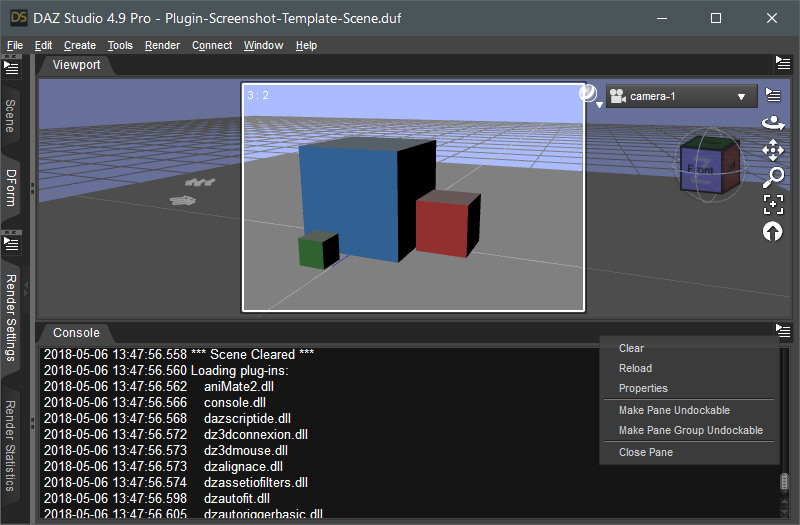
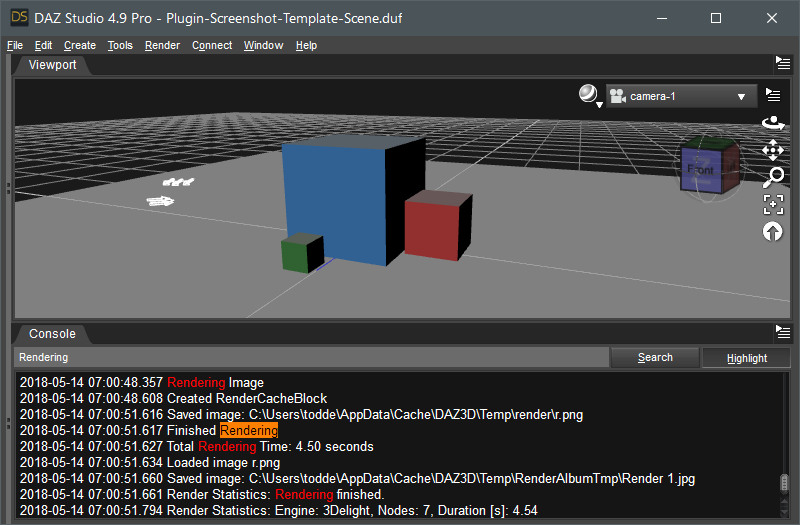
Updating README.md and consoles screenshot, collecting new TODOs for the search/highlight feature and increasing version of console

diff --git a/console/version.h b/console/version.h
@@ -18,7 +18,7 @@
 #define PLUGIN_TAGLINE "This plug-in provides a console to the log file of DAZ Studio."
 #define PLUGIN_MAJOR 1
 #define PLUGIN_MINOR 4
-#define PLUGIN_REV 0
+#define PLUGIN_REV 1
 #define PLUGIN_BUILD 1
 #define PLUGIN_VERSION DZ_MAKE_VERSION( \
   PLUGIN_MAJOR, PLUGIN_MINOR, PLUGIN_REV, PLUGIN_BUILD \

diff --git a/README.md b/README.md
@@ -5,7 +5,7 @@ dzUtilities
 
 #|Utility Plugin|Description|Version|TODO|Source
 ---|---|---|---|---|---
-1.|[Console](#console)|Console plugin displaying DAZ Studio Log file|1.4.0|[TODO](https://github.com/tpiekarski/dzUtilities/blob/master/console/TODO.md)|[dzUtilities/console](https://github.com/tpiekarski/dzUtilities/tree/master/console)
+1.|[Console](#console)|Console plugin displaying DAZ Studio Log file|1.4.1|[TODO](https://github.com/tpiekarski/dzUtilities/blob/master/console/TODO.md)|[dzUtilities/console](https://github.com/tpiekarski/dzUtilities/tree/master/console)
 2.|[Render Statistics](#render-statistics)|Render data aggregation and statistics plugin|1.4.0|[TODO](https://github.com/tpiekarski/dzUtilities/blob/master/renderstatistics/TODO.md)|[dzUtilities/renderstatistics](https://github.com/tpiekarski/dzUtilities/tree/master/renderstatistics)
 n.|[Tests](#tests)|Unit test project for all utility plugins|-|-|[dzUtilities/tests](https://github.com/tpiekarski/dzUtilities/tree/master/tests)
 
@@ -30,7 +30,7 @@ Variable|Description
 ---|---
 DAZ_SDK|The full path to DAZ Studio SDK (Used for generating metaobjects with moc)
 DAZ_STUDIO|The full path to DAZ Studio (Used for post-built deployment)
-QT_SDK|The full path to Qt SDK 4.8.x (Used for unit tests)_
+QT_SDK|The full path to Qt SDK 4.8.x (Used for unit tests)
 
 #### Requirements
 - [Visual Studio 2017](https://www.visualstudio.com/)
@@ -45,12 +45,11 @@ QT_SDK|The full path to Qt SDK 4.8.x (Used for unit tests)_
 
 ### Console
 #### Introduction
-Console is a plugin for DAZ Studio for displaying the internal log file
-in a convenient window pane, which is size- and dock-able. By a few events
-provided by Qt signal and slot concept the display is automatically updated,
-like after finishing a rendering. Next to these signals it is possible to update
-it manually, clear the displayed lines and set the font size in a property
-dialog.
+Console is a plugin for DAZ Studio for displaying the internal log file in a convenient and 
+searchable window pane, which is size- and dock-able. With the signal/slot concept the display 
+is automatically updated as soon as new lines are written to the log file. Furthermore, it offers 
+searching and highlighting of search terms. Next to these features it is possible to update the 
+display manually, clear the displayed lines and set the font size in a property dialog.
 
 ![Screenshot of Console](images/console.jpg?raw=true "Screenshot of Console")
 

diff --git a/console/TODO.md b/console/TODO.md
@@ -4,8 +4,12 @@ dzUtilities::Console
 #### TODO
 
 ##### Features
++ [ ] Add button for reseting search and highlight
++ [ ] Add buttons for previous and next search result (displayed on demand)
 + [ ] Add filter for the issuer of log messages
 + [ ] Change or extend input widget for the font size with increase/decrease buttons
++ [ ] Create signal/slot connection between reloading log and highlighting search term
++ [ ] Implement search by regular expressions and add a checkbox for toggling
 + [ ] Improve speed of seeking to 0 when reloading log
 + [ ] Package and provide pre-compiled plugin library
 + [x] Add the possibility to search for keywords (forward and backward - starts over)
@@ -31,6 +35,8 @@ dzUtilities::Console
 + [x] Streamline naming of headers and source files to lowercased underscore
 
 ##### Memory Improvements
++ [ ] At ConsolePane::showProperties deallocate memory for the ConsolePropertiesDialog
++ [ ] Improve speed of highlighting by caching and only highlighting visible log
 + [x] Keep log file opened instead of opening/closing at every call to displayLog
       (see bugs:debug and solve delaying and blocking behavior)
 
@@ -52,6 +58,7 @@ dzUtilities::Console
 
 #### Bugs
 + [ ] Fix initial log display bug sometimes not showing the end of file (off by a few lines)
++ [ ] Fix missing log path display in the settings dialog
 + [ ] Fix warning about missing /MASCHINE argument during linking x86 library for testing
 + [x] Debug and solve delaying and blocking behavior of QFileSystemWatcher
 + [x] Fix missing auto-reload after clearing and reloading
